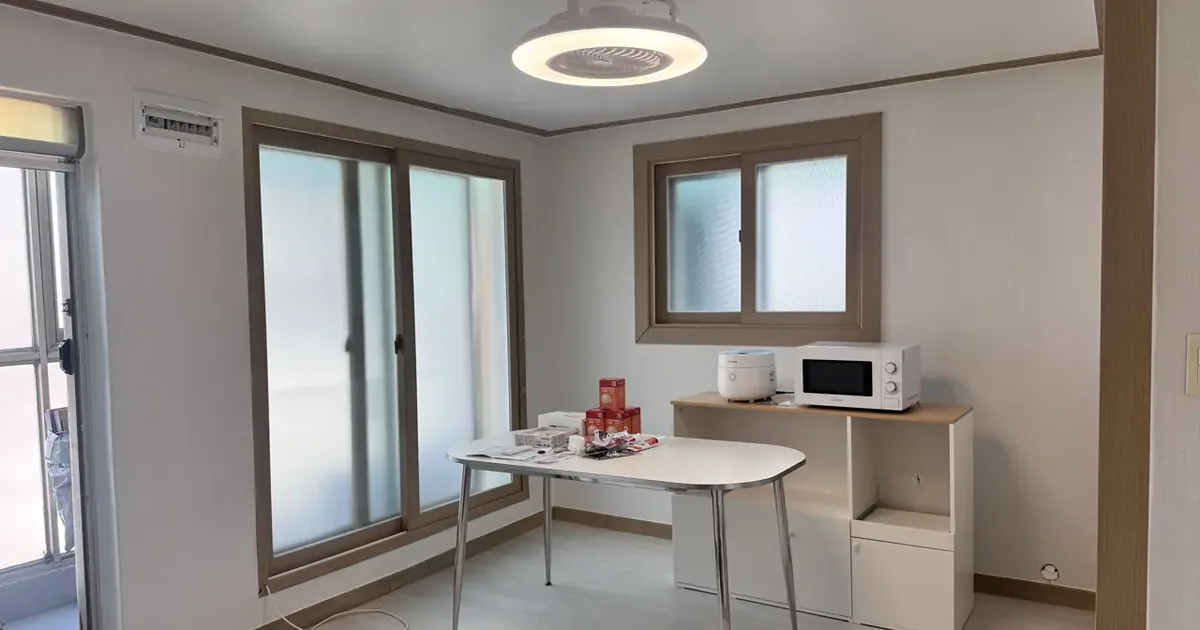
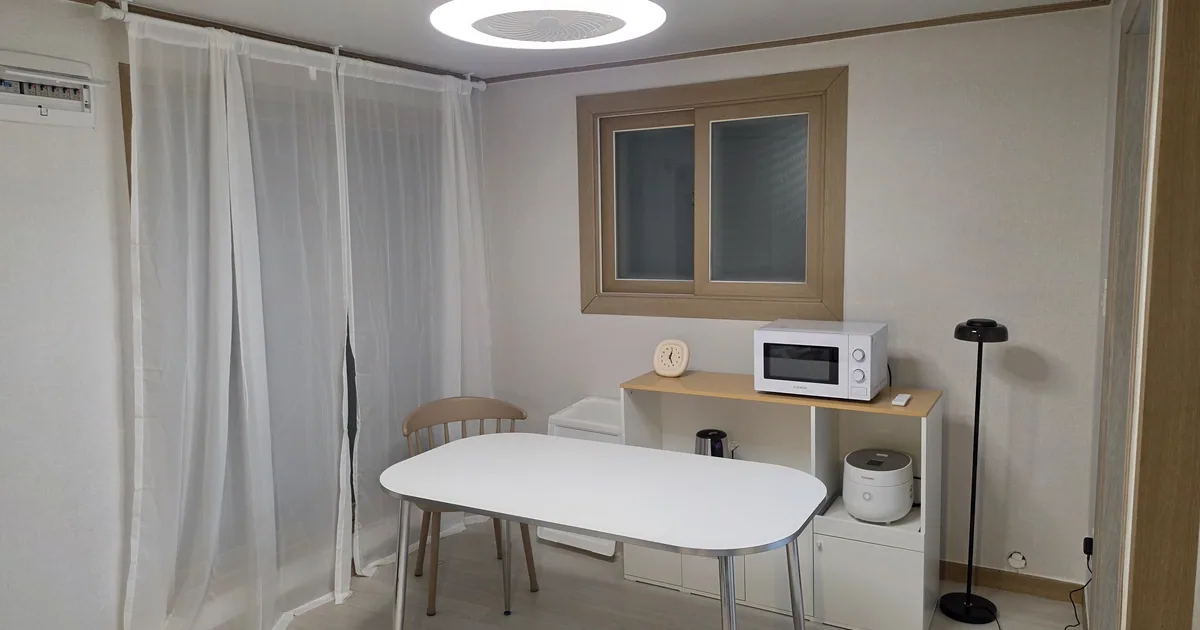
Replace the share house photos with the finished rooms
The first set was shot mid-installation: a bare table with no chairs,
packaging still on it, a cable across the floor. The house is finished
now, so the common room shows curtains, chairs and a lamp, and the cover
uses a frame that was landscape to begin with rather than a crop out of a
portrait one. The kitchen shot is brighter and takes in the bin and the
drying rack as well as the fridge and hob.

Adds a desk with postcards on the wall above it, and the line that goes
with it: the walls take pins and we would rather you used them, because a
room you have not been allowed to change is a room you are only sleeping
in.

Claude-Session: https://claude.ai/code/session_01KjcKsxJK2cUnviuE5G9suT

diff --git a/src/content/blog/korea-university-housing/index.md b/src/content/blog/korea-university-housing/index.md
@@ -2,11 +2,12 @@
 title: "A Share House Three Minutes from Korea University"
 description: "Single rooms in Jongam-dong by Korea University Station: aircon in every room, a washer-dryer, a shared kitchen and a rooftop. Deposits sized for students."
 pubDate: 2026-08-26T17:53:00+09:00
+updatedDate: 2026-08-27T10:23:00+09:00
 service: moving
 category: home
 tags: ["coliving", "share-house", "housing", "students", "korea-university"]
 cover: "./cover.webp"
-coverAlt: "The shared common room of a Jongam-dong share house, with a dining table, a rice cooker and microwave on a sideboard, and a full-height window onto a balcony"
+coverAlt: "The shared common room of a Jongam-dong share house: a dining table and chairs, a sideboard with a microwave, rice cooker and kettle, a floor lamp and curtained windows"
 coverCaption: "The common room, three minutes from KU"
 draft: false
 ---
@@ -75,6 +76,13 @@ the room.
 These are walk-throughs rather than photographs, and deliberately so: a still can
 make a small room look generous by standing in the right corner, and a continuous
 pan cannot.
+
+![A single room's desk with an office chair, postcards pinned on the wall above it and an air conditioner](./room-desk-postcards.webp)
+
+*Desk, chair and aircon in every room · ⓒ @BalliBalliSeoul*
+
+The walls take pins and tape, and we would rather you used them. A room you have not
+been allowed to change is a room you are only sleeping in.
 
 **The rooms are not identical.** The window, the wall the bed sits against and the
 usable floor differ from one to the next — so ask which room you are being offered,
